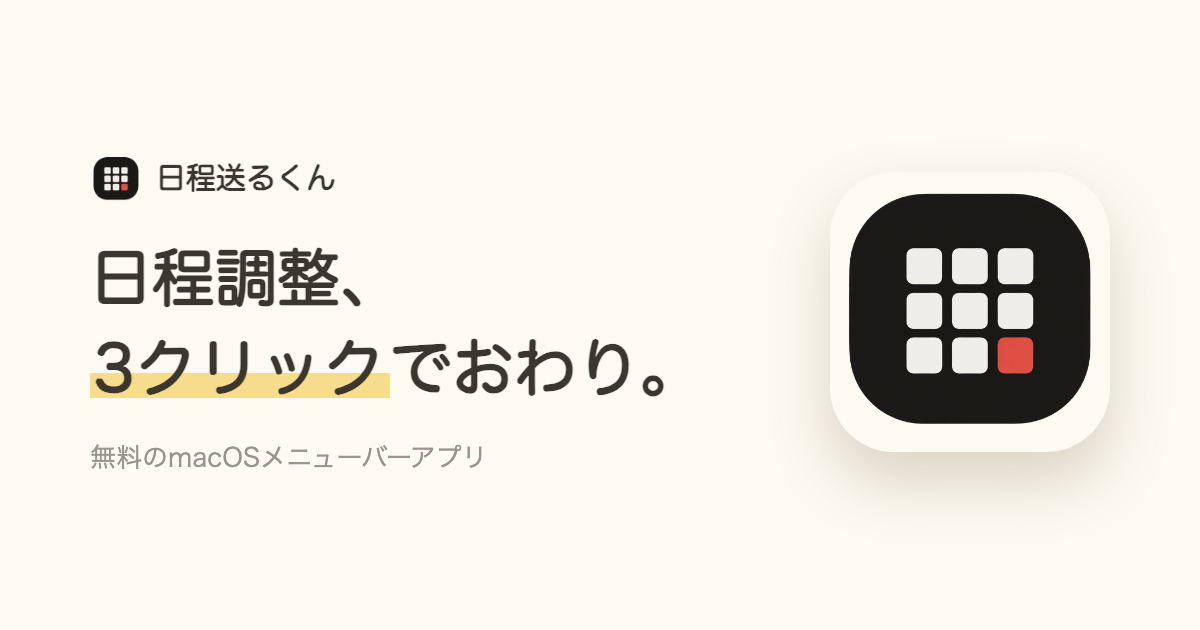
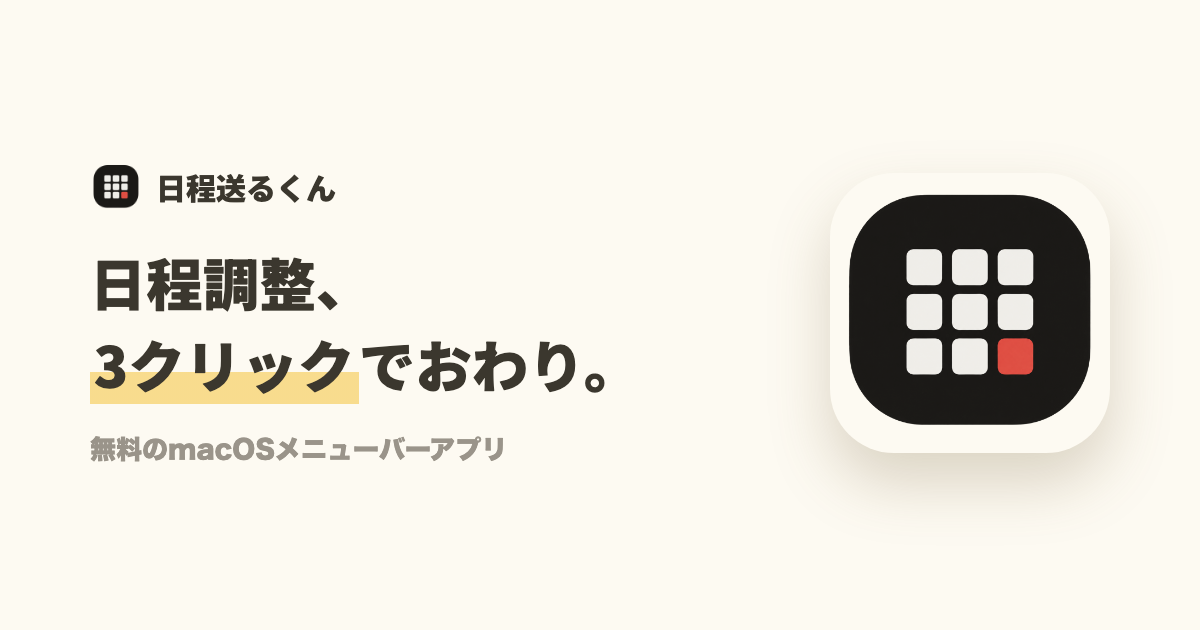
ヒーロー見出しをNoto Sans JP 900の1行表示に変更、OGP画像も更新

diff --git a/docs/index.html b/docs/index.html
@@ -6,6 +6,9 @@
 <title>日程送るくん｜日程調整の候補日時を3クリックで文面にする無料Macアプリ</title>
 <meta name="description" content="日程調整、3クリックでおわり。メールやSlackの入力中に control＋command＋N、カレンダーから選ぶだけで「以下の日程でご予定はいかがでしょうか。」の文面ができて、そのまま貼り付く。無料・オープンソースのmacOSメニューバーアプリ。">
 <link rel="canonical" href="https://nittei-okurukun.github.io/">
+<link rel="preconnect" href="https://fonts.googleapis.com">
+<link rel="preconnect" href="https://fonts.gstatic.com" crossorigin>
+<link href="https://fonts.googleapis.com/css2?family=Noto+Sans+JP:wght@900&display=swap" rel="stylesheet">
 <link rel="icon" href="img/appicon.png">
 <link rel="apple-touch-icon" href="img/appicon.png">
 <meta property="og:type" content="website">
@@ -63,7 +66,8 @@
     -webkit-font-smoothing: antialiased;
   }
   .maru {
-    font-family: "Hiragino Maru Gothic ProN", "Hiragino Sans", sans-serif;
+    font-family: "Noto Sans JP", "Hiragino Sans", sans-serif;
+    font-weight: 900;
   }
   .wrap { max-width: 960px; margin: 0 auto; padding: 0 24px; }
 
@@ -80,8 +84,8 @@
 
   header { padding: 88px 0 56px; text-align: center; }
   h1 {
-    font-size: clamp(34px, 6.4vw, 60px);
-    line-height: 1.5; font-weight: 800; letter-spacing: .01em;
+    font-size: clamp(24px, 5.6vw, 58px);
+    line-height: 1.5; letter-spacing: .01em; white-space: nowrap;
   }
   mark {
     background: linear-gradient(transparent 60%, var(--marker) 60%);
@@ -236,7 +240,7 @@
   </nav>
 
   <header>
-    <h1 class="maru">日程調整、<br><mark>3クリック</mark>でおわり。</h1>
+    <h1 class="maru">日程調整、<mark>3クリック</mark>でおわり。</h1>
     <p class="lede">
       メールを書きながら <kbd>control</kbd>＋<kbd>⌘ command</kbd>＋<kbd>N</kbd>。カレンダーから選ぶだけで、
       候補日時の文面ができあがって、そのまま貼り付く。<br>
